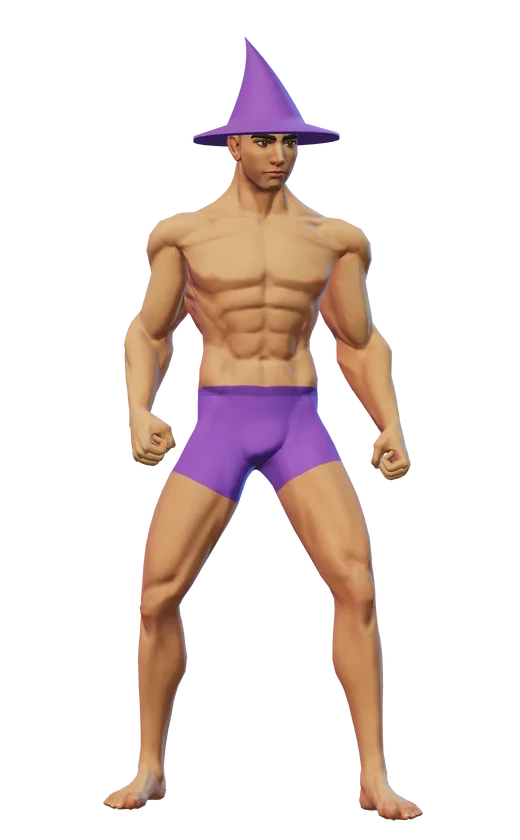
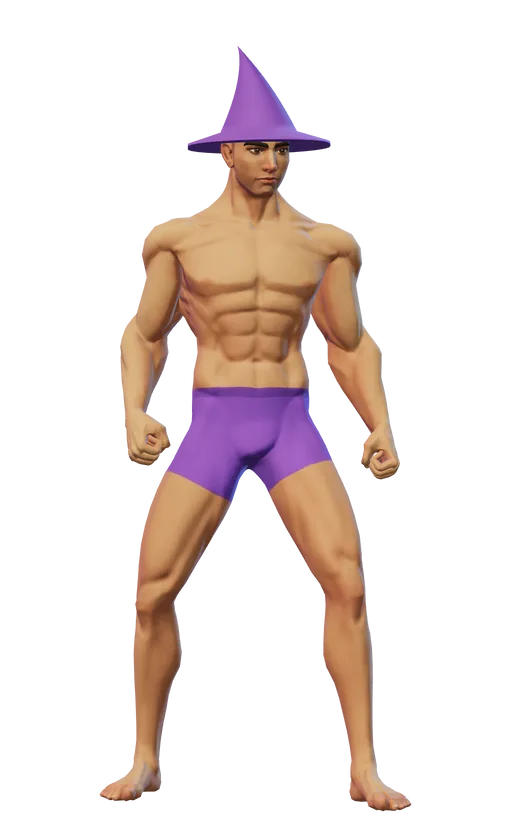
Loading screen: "This is you." is live, breathing and turning, and turns with a drag
Skyrim's loading screen: the player turns slowly by himself (once round in
40 s) and a click and drag turns him left or right. He breathes in the body's
idle clip. src/ui/youViewer.js draws him on a small renderer of its own, loaded
only when the loading screen comes up and disposed with it; the still
(public/you.webp, now rendered from the same module and framed for every yaw)
shows until his first frame and stays if WebGL fails.

Claude-Session: https://claude.ai/code/session_014ikx5t39wVXaZrpCgKXi2h

Changed region(s): [[0.1846, 0.031, 0.8308, 0.9905], [0.2769, 0.5881, 0.3077, 0.65]]

diff --git a/src/ui/youViewer.js b/src/ui/youViewer.js
@@ -1,0 +1,131 @@
+// "This is you." live: the loading screen's player (ui/menu.js), the realistic
+// body (figureReal.js's model, public/models/character/body.glb) in his wizard
+// hat (garb.js) and purple boxers, breathing in his idle clip on a small
+// renderer of its own. Skyrim's loading screen: the model turns slowly by
+// itself, and a click and drag turns it left or right. tools/you-portrait.mjs
+// renders one frame of the same scene into public/you.webp, the still shown
+// until this one is up.
+//
+// It lights him like a character-select portrait (TF2's class select, Halo 3's
+// player model in the lobby): a warm key from the front, a cool rim from behind
+// to cut him out of a dark screen, and a soft room for the skin's sheen.
+//   createYou({ width, height, pixelRatio, yaw, time }) → { canvas, yaw, frame(dt), dispose() }
+import * as THREE from 'three';
+import { GLTFLoader } from 'three/addons/loaders/GLTFLoader.js';
+import { MeshoptDecoder } from 'three/addons/libs/meshopt_decoder.module.js';
+import { RoomEnvironment } from 'three/addons/environments/RoomEnvironment.js';
+import { BODY_MODEL_URL } from '../pov/bodyModel.js';
+import { buildGarb, GARB_COLORS } from '../pov/garb.js';
+
+const FOV = 20;                       // degrees: a long lens, little distortion (pov/classPortraits.js uses 24)
+const FRAME_MARGIN = 1.03;            // room round his box
+const LOW_ANGLE = 0.06;               // rad the camera looks up at him: a little heroic
+const EYEBROWS = [0.06, 0.035, 0.02]; // figureReal.js TINT_BY_MATERIAL.MI_Hair_1: dark brown over the greyscale mask
+const ROOM = 0.4;                     // the room's light on him
+const KEY = 2.6;                      // key light, warm, from up front left
+const KEY_COLOR = 0xffe2c4;
+const KEY_DIR = [-2, 3, 3.2];
+const RIM = 6;                        // rim light, cool, from behind right: the menu's blue (menu.css --mm-blue-hi)
+const RIM_COLOR = 0x5aa4ee;
+const RIM_DIR = [2.4, 1.8, -3];
+const FILL = 1.6;                     // a purple fill from behind left: the hat's colour
+const FILL_COLOR = 0x9a63db;
+const FILL_DIR = [-2.6, 0.6, -2];
+const EXPOSURE = 1.05;
+const MAX_DT = 0.1;                   // s: a frame after the page froze (the map build, the shaders) steps no further
+
+export async function createYou({ width, height, pixelRatio = 1, yaw = 0, time = 0, preserveDrawingBuffer = false }) {
+  const gltf = await new GLTFLoader().setMeshoptDecoder(MeshoptDecoder).loadAsync(BODY_MODEL_URL);
+  const model = gltf.scene;
+  const meshes = [];
+  model.traverse((o) => {
+    if (!o.isSkinnedMesh) return;
+    o.frustumCulled = false;
+    if (o.material.name === 'MI_Hair_1') o.material.color.setRGB(...EYEBROWS);
+    meshes.push(o);
+  });
+  // the hat, skinned to his head bone as in the game
+  const body = meshes.reduce((a, b) => (b.geometry.attributes.position.count > a.geometry.attributes.position.count ? b : a));
+  const { hat } = buildGarb(meshes);
+  const hatMat = new THREE.MeshStandardMaterial({ color: new THREE.Color().setRGB(...GARB_COLORS.hat), roughness: 0.85, side: THREE.DoubleSide });
+  const hatMesh = new THREE.SkinnedMesh(hat, hatMat);
+  hatMesh.frustumCulled = false;
+  hatMesh.bind(body.skeleton, body.bindMatrix);
+  body.parent.add(hatMesh);
+  meshes.push(hatMesh);
+
+  // his idle clip: the breathing
+  const mixer = new THREE.AnimationMixer(model);
+  mixer.clipAction(gltf.animations.find((c) => c.name === 'idle')).play();
+  mixer.setTime(time);
+  const holder = new THREE.Group();   // turned about his feet; the glTF faces +z, the camera
+  holder.add(model);
+  const scene = new THREE.Scene();
+  scene.add(holder);
+  scene.updateMatrixWorld(true);
+
+  // his posed box, from the skinned vertices, made round about the turning axis: framed once, he
+  // fits the frame at every yaw
+  const box = new THREE.Box3();
+  const v = new THREE.Vector3();
+  for (const m of meshes) {
+    m.skeleton.update();
+    const n = m.geometry.attributes.position.count;
+    for (let i = 0; i < n; i++) box.expandByPoint(m.localToWorld(m.getVertexPosition(i, v)));
+  }
+  const reach = Math.max(Math.abs(box.min.x), Math.abs(box.max.x), Math.abs(box.min.z), Math.abs(box.max.z));
+  const centre = new THREE.Vector3(0, (box.min.y + box.max.y) / 2, 0);
+  const tall = box.max.y - box.min.y;
+
+  const camera = new THREE.PerspectiveCamera(FOV, width / height, 0.1, 100);
+  const half = THREE.MathUtils.degToRad(FOV / 2);
+  const fitH = (tall / 2) / Math.tan(half);
+  const fitW = reach / (Math.tan(half) * camera.aspect);
+  const dist = Math.max(fitH, fitW) * FRAME_MARGIN + reach;
+  camera.position.set(0, centre.y - Math.sin(LOW_ANGLE) * dist, Math.cos(LOW_ANGLE) * dist);
+  camera.lookAt(centre);
+
+  const renderer = new THREE.WebGLRenderer({ antialias: true, alpha: true, preserveDrawingBuffer });
+  renderer.setPixelRatio(pixelRatio);
+  renderer.setSize(width, height, false);
+  renderer.setClearColor(0x000000, 0);
+  renderer.toneMapping = THREE.ACESFilmicToneMapping;
+  renderer.toneMappingExposure = EXPOSURE;
+  const pmrem = new THREE.PMREMGenerator(renderer);
+  scene.environment = pmrem.fromScene(new RoomEnvironment(), 0.04).texture;
+  scene.environmentIntensity = ROOM;
+  for (const [intensity, color, dir] of [[KEY, KEY_COLOR, KEY_DIR], [RIM, RIM_COLOR, RIM_DIR], [FILL, FILL_COLOR, FILL_DIR]]) {
+    const light = new THREE.DirectionalLight(color, intensity);
+    light.position.set(...dir).add(centre);
+    light.target.position.copy(centre);
+    scene.add(light, light.target);
+  }
+
+  const you = {
+    canvas: renderer.domElement,
+    yaw,
+    // advance his breathing dt seconds and draw him at you.yaw
+    frame(dt = 0) {
+      mixer.update(Math.min(dt, MAX_DT));
+      holder.rotation.y = you.yaw;
+      renderer.render(scene, camera);
+    },
+    dispose() {
+      mixer.stopAllAction();
+      pmrem.dispose();
+      scene.environment?.dispose();
+      hatMat.dispose();
+      hat.dispose();
+      model.traverse((o) => {
+        o.geometry?.dispose();
+        for (const m of [o.material].flat().filter(Boolean)) {
+          for (const k in m) if (m[k]?.isTexture) m[k].dispose();
+          m.dispose();
+        }
+      });
+      renderer.dispose();
+      renderer.forceContextLoss();
+    },
+  };
+  return you;
+}

diff --git a/src/ui/menu.js b/src/ui/menu.js
@@ -27,12 +27,20 @@ import { MODEICONS, MODEICON_BOX } from './modeicons.js';
 // Start turns it into the loading screen until the map is up, kept plain: the
 // map's art behind the gamemode, the map's name, the game's line, a bar, what
 // the boot is doing now, and the player as he is ("This is you.":
-// public/you.webp, tools/you-portrait.mjs).
+// public/you.webp, tools/you-portrait.mjs), then live (ui/youViewer.js):
+// breathing, turning slowly, and turned left or right with a drag, as on
+// Skyrim's loading screen.
 //   loading(status, o)    the screen, with the game's line (src/main.js)
 //   progress(step, text)  a boot step began (STEPS keys; 'cold': the shaders are compiling
 //                         cold; 'match' with app.js's line for it)
 const THUMB = (key) => `/maps/${key}.webp`;
 const YOU = '/you.webp';
+// Skyrim's loading screen: the model turns by itself, slowly, and the mouse turns it
+const YOU_SPIN = (2 * Math.PI) / 40;   // rad/s it turns by itself: once round in 40 s
+const YOU_DRAG = (2 * Math.PI) / 360;  // rad per CSS px of drag: once round in 360 px
+const YOU_MAX_DPR = 2;                 // its canvas's px per CSS px, at most
+const YOU_MAX_STEP = 0.1;              // s it turns at most in a frame: none of a freeze (the map build, the shaders) is made up
+const YOU_ASPECT = 260 / 420;          // the still's width over its height (tools/you-portrait.mjs SHOWN_W, SHOWN_H)
 const STORE = 'powder-toy-3d:menu';   // the last gamemode and map picked here
 // What the loading screen says it's on, one line under its bar. GMod's loading
 // screen names the step it is really on ("Retrieving server info", "Sending
@@ -101,6 +109,8 @@ export function createMenu({ modes, quick = [], map, mode, onStart, onResume, on
   // undecoded image paints, and the caption then points at nothing
   you.decode?.().catch(() => {});
   you.addEventListener('error', () => you.closest('figure')?.remove());
+  const youFig = h('figure.mm-you', {}, you, h('figcaption', { text: 'This is you.' }));
+  const youLive = liveYou(youFig, you);
 
   const el = h('div.mm', { role: 'dialog', 'aria-label': 'Maps' },
     backdrop,
@@ -119,7 +129,7 @@ export function createMenu({ modes, quick = [], map, mode, onStart, onResume, on
         h('div.mm-actions', {}, exportBtn, deleteBtn, startBtn))),
     h('div.mm-load', { 'aria-live': 'polite' },
       h('div.mm-load-copy', {}, loadMode, loadName, loadStatus, h('div.mm-load-bar', {}, h('i')), loadStep),
-      h('figure.mm-you', {}, you, h('figcaption', { text: 'This is you.' }))));
+      youFig));
   document.body.append(el);
 
   // a preview that isn't there (a map added since tools/map-thumbs.mjs last ran): the card's gradient shows
@@ -332,7 +342,7 @@ export function createMenu({ modes, quick = [], map, mode, onStart, onResume, on
       requestAnimationFrame(() => cards.find((c) => c.m === pick)?.card.focus({ preventScroll: true }));
       cards.find((c) => c.m === pick)?.card.scrollIntoView({ block: 'nearest' });
     },
-    close() { el.classList.remove('open', 'loading'); busy = false; },
+    close() { el.classList.remove('open', 'loading'); busy = false; youLive.stop(); },
     // the loading screen: the gamemode, the map, the step under way, and you (on a pick of its
     // own: a link's ?map= and ?mode=, src/main.js); name: what is loading, if not the picked map (a save)
     loading(status, { map: mk, mode: md, name = null } = {}) {
@@ -351,6 +361,7 @@ export function createMenu({ modes, quick = [], map, mode, onStart, onResume, on
       cold = false;
       renderStep();
       el.classList.add('open', 'loading');
+      youLive.start();
     },
     // a boot step began (text: its line, if not STEPS' own: the match's, from app.js)
     progress(step, text) {
@@ -363,5 +374,63 @@ export function createMenu({ modes, quick = [], map, mode, onStart, onResume, on
       renderStep();
     },
     get isOpen() { return el.classList.contains('open'); },
+  };
+}
+
+// The loading screen's player live (ui/youViewer.js, its three.js loaded only now): in the still's
+// place once his first frame is drawn, and gone with the screen, its WebGL context with it. A
+// failure (no WebGL) leaves the still.
+function liveYou(fig, still) {
+  let you = null, on = false, loading = null, raf = 0, last = 0, drag = null;
+  const loop = (t) => {
+    raf = requestAnimationFrame(loop);
+    const dt = last ? (t - last) / 1000 : 0;
+    last = t;
+    if (!drag) you.yaw += YOU_SPIN * Math.min(dt, YOU_MAX_STEP);
+    you.frame(dt);
+  };
+  fig.addEventListener('pointerdown', (e) => {
+    if (!you || e.button !== 0) return;
+    drag = { x: e.clientX, yaw: you.yaw };
+    fig.setPointerCapture(e.pointerId);
+    fig.classList.add('dragging');
+    e.preventDefault();
+  });
+  fig.addEventListener('pointermove', (e) => { if (drag) you.yaw = drag.yaw + (e.clientX - drag.x) * YOU_DRAG; });
+  const drop = () => { drag = null; fig.classList.remove('dragging'); };
+  fig.addEventListener('pointerup', drop);
+  fig.addEventListener('pointercancel', drop);
+  return {
+    start() {
+      on = true;
+      if (you || loading || !still.isConnected) return;
+      const height = fig.clientHeight, width = Math.round(height * (still.naturalWidth / still.naturalHeight || YOU_ASPECT));
+      if (!height) return;
+      const pixelRatio = Math.min(devicePixelRatio || 1, YOU_MAX_DPR);
+      loading = import('./youViewer.js')
+        .then(({ createYou }) => createYou({ width: width * pixelRatio, height: height * pixelRatio, yaw: 0.42, time: 0.6 }))
+        .then((y) => {
+          if (!on) { y.dispose(); return; }
+          you = y;
+          you.canvas.className = 'mm-you-live';
+          you.frame();
+          still.replaceWith(you.canvas);
+          fig.classList.add('live');
+          last = 0;
+          raf = requestAnimationFrame(loop);
+        })
+        .catch((err) => console.warn('loading screen: the live player failed, the still stays', err))
+        .finally(() => { loading = null; });
+    },
+    stop() {
+      on = false;
+      cancelAnimationFrame(raf);
+      drop();
+      if (!you) return;
+      you.canvas.replaceWith(still);
+      fig.classList.remove('live');
+      you.dispose();
+      you = null;
+    },
   };
 }

diff --git a/tools/you-portrait.page.js b/tools/you-portrait.page.js
@@ -1,102 +1,13 @@
-// The browser half of tools/you-portrait.mjs: the realistic body (figureReal.js's
-// model, public/models/character/body.glb) in his wizard hat (garb.js) and purple
-// boxers, standing in his idle clip, drawn once on a transparent background by a
-// small renderer of its own. The start menu's loading screen shows him: "This is you."
-//
-// It lights him like a character-select portrait (TF2's class select, Halo 3's
-// player model in the lobby): a warm key from the front, a cool rim from behind
-// to cut him out of a dark screen, and a soft room for the skin's sheen.
+// The browser half of tools/you-portrait.mjs: one frame of the loading screen's
+// live player (src/ui/youViewer.js), a moment into his idle clip and turned a
+// little to screen left, on a transparent background.
 //   render({ width, height, yaw, time }) → a PNG data URL
-import * as THREE from 'three';
-import { GLTFLoader } from 'three/addons/loaders/GLTFLoader.js';
-import { MeshoptDecoder } from 'three/addons/libs/meshopt_decoder.module.js';
-import { RoomEnvironment } from 'three/addons/environments/RoomEnvironment.js';
-import { BODY_MODEL_URL } from '../src/pov/bodyModel.js';
-import { buildGarb, GARB_COLORS } from '../src/pov/garb.js';
-
-const FOV = 20;                       // degrees: a long lens, little distortion (pov/classPortraits.js uses 24)
-const FRAME_MARGIN = 1.03;            // room round his box
-const LOW_ANGLE = 0.06;               // rad the camera looks up at him: a little heroic
-const EYEBROWS = [0.06, 0.035, 0.02]; // figureReal.js TINT_BY_MATERIAL.MI_Hair_1: dark brown over the greyscale mask
-const ROOM = 0.4;                     // the room's light on him
-const KEY = 2.6;                      // key light, warm, from up front left
-const KEY_COLOR = 0xffe2c4;
-const KEY_DIR = [-2, 3, 3.2];
-const RIM = 6;                        // rim light, cool, from behind right: the menu's blue (menu.css --mm-blue-hi)
-const RIM_COLOR = 0x5aa4ee;
-const RIM_DIR = [2.4, 1.8, -3];
-const FILL = 1.6;                     // a purple fill from behind left: the hat's colour
-const FILL_COLOR = 0x9a63db;
-const FILL_DIR = [-2.6, 0.6, -2];
-const EXPOSURE = 1.05;
+import { createYou } from '../src/ui/youViewer.js';
 
 export async function render({ width, height, yaw = 0.42, time = 0.6 }) {
-  const gltf = await new GLTFLoader().setMeshoptDecoder(MeshoptDecoder).loadAsync(BODY_MODEL_URL);
-  const model = gltf.scene;
-  const meshes = [];
-  model.traverse((o) => {
-    if (!o.isSkinnedMesh) return;
-    o.frustumCulled = false;
-    if (o.material.name === 'MI_Hair_1') o.material.color.setRGB(...EYEBROWS);
-    meshes.push(o);
-  });
-  // the hat, skinned to his head bone as in the game
-  const body = meshes.reduce((a, b) => (b.geometry.attributes.position.count > a.geometry.attributes.position.count ? b : a));
-  const { hat } = buildGarb(meshes);
-  const hatMat = new THREE.MeshStandardMaterial({ color: new THREE.Color().setRGB(...GARB_COLORS.hat), roughness: 0.85, side: THREE.DoubleSide });
-  const hatMesh = new THREE.SkinnedMesh(hat, hatMat);
-  hatMesh.frustumCulled = false;
-  hatMesh.bind(body.skeleton, body.bindMatrix);
-  body.parent.add(hatMesh);
-  meshes.push(hatMesh);
-
-  // his idle clip, a moment in
-  const mixer = new THREE.AnimationMixer(model);
-  mixer.clipAction(gltf.animations.find((c) => c.name === 'idle')).play();
-  mixer.setTime(time);
-  const holder = new THREE.Group();
-  holder.rotation.y = yaw;   // the glTF faces +z, the camera: turned a little to screen left
-  holder.add(model);
-  const scene = new THREE.Scene();
-  scene.add(holder);
-  scene.updateMatrixWorld(true);
-
-  // his posed box, from the skinned vertices
-  const box = new THREE.Box3();
-  const v = new THREE.Vector3();
-  for (const m of meshes) {
-    m.skeleton.update();
-    const n = m.geometry.attributes.position.count;
-    for (let i = 0; i < n; i++) box.expandByPoint(m.localToWorld(m.getVertexPosition(i, v)));
-  }
-  const size = box.getSize(new THREE.Vector3()), centre = box.getCenter(new THREE.Vector3());
-
-  const camera = new THREE.PerspectiveCamera(FOV, width / height, 0.1, 100);
-  const half = THREE.MathUtils.degToRad(FOV / 2);
-  const fitH = (size.y / 2) / Math.tan(half);
-  const fitW = (Math.max(size.x, size.z) / 2) / (Math.tan(half) * camera.aspect);
-  const dist = Math.max(fitH, fitW) * FRAME_MARGIN + size.z / 2;
-  camera.position.set(centre.x, centre.y - Math.sin(LOW_ANGLE) * dist, centre.z + Math.cos(LOW_ANGLE) * dist);
-  camera.lookAt(centre);
-
-  const renderer = new THREE.WebGLRenderer({ antialias: true, alpha: true, preserveDrawingBuffer: true });
-  renderer.setPixelRatio(1);
-  renderer.setSize(width, height);
-  renderer.setClearColor(0x000000, 0);
-  renderer.toneMapping = THREE.ACESFilmicToneMapping;
-  renderer.toneMappingExposure = EXPOSURE;
-  const pmrem = new THREE.PMREMGenerator(renderer);
-  scene.environment = pmrem.fromScene(new RoomEnvironment(), 0.04).texture;
-  scene.environmentIntensity = ROOM;
-  for (const [intensity, color, dir] of [[KEY, KEY_COLOR, KEY_DIR], [RIM, RIM_COLOR, RIM_DIR], [FILL, FILL_COLOR, FILL_DIR]]) {
-    const light = new THREE.DirectionalLight(color, intensity);
-    light.position.set(...dir).add(centre);
-    light.target.position.copy(centre);
-    scene.add(light, light.target);
-  }
-  renderer.render(scene, camera);
-  const url = renderer.domElement.toDataURL('image/png');
-  renderer.dispose();
-  pmrem.dispose();
+  const you = await createYou({ width, height, yaw, time, preserveDrawingBuffer: true });
+  you.frame();
+  const url = you.canvas.toDataURL('image/png');
+  you.dispose();
   return url;
 }

diff --git a/src/ui/menu.css b/src/ui/menu.css
@@ -207,7 +207,10 @@ body { color: var(--mm-text); font: 400 13px/1.4 var(--mm-ui); -webkit-font-smoo
   content: ''; position: absolute; left: -10%; right: -10%; bottom: -5%; height: 14%;
   background: radial-gradient(closest-side, rgba(90, 164, 238, 0.42), transparent);
 }
-.mm-you img { position: relative; display: block; height: 100%; width: auto; filter: drop-shadow(0 10px 18px rgba(0, 0, 0, 0.55)); }
+.mm-you img, .mm-you-live { position: relative; display: block; height: 100%; width: auto; filter: drop-shadow(0 10px 18px rgba(0, 0, 0, 0.55)); }
+/* live (ui/youViewer.js): turned with a drag, Skyrim's loading screen */
+.mm-you.live { cursor: grab; touch-action: none; user-select: none; }
+.mm-you.live.dragging { cursor: grabbing; }
 .mm-you figcaption {
   position: absolute; right: 100%; top: 34%; margin-right: 4px;
   display: flex; align-items: center; gap: 8px; white-space: nowrap;

diff --git a/README.md b/README.md
@@ -160,7 +160,7 @@ into `public/maps`, and `tools/menu-check.mjs` checks the menu on the GPU. A lin
 
 Start brings up a plain loading screen over the map's art: the gamemode, the map's name, a bar, and the one step the
 boot is on now (download, build, shader compile, world, the match being set up), as GMod's loading screen names it.
-The player stands beside it: "This is you." He is a render of the real body (`tools/you-portrait.mjs`).
+The player stands beside it: "This is you." He is the real body, live (`src/ui/youViewer.js`): breathing in his idle clip and turning slowly, and a click and drag turns him left or right, as on Skyrim's loading screen. A render of him (`tools/you-portrait.mjs`) stands in until he is up.
 `tools/loading-screen-check.mjs` checks the menu's icons and the loading screen on the GPU.
 
 ## World
